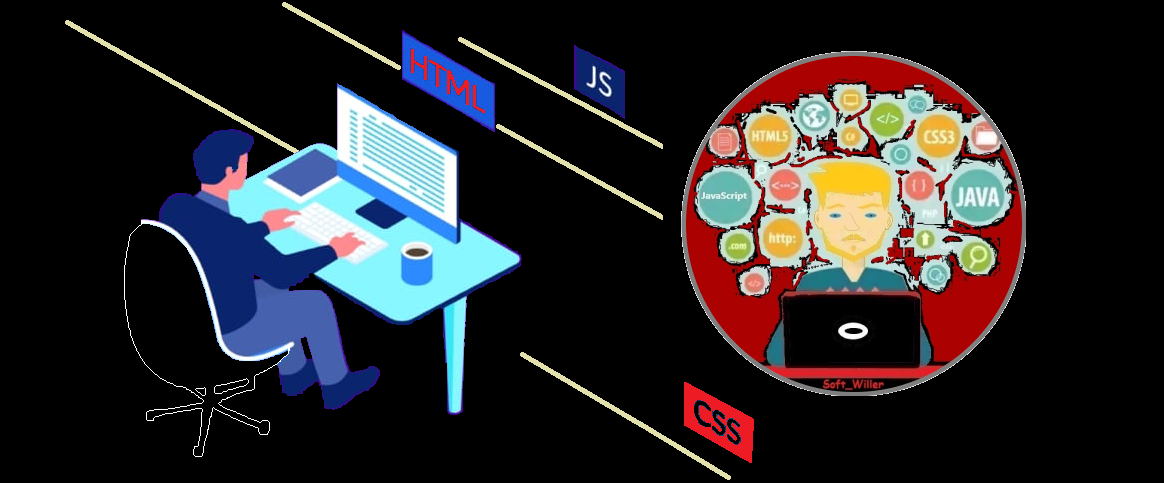
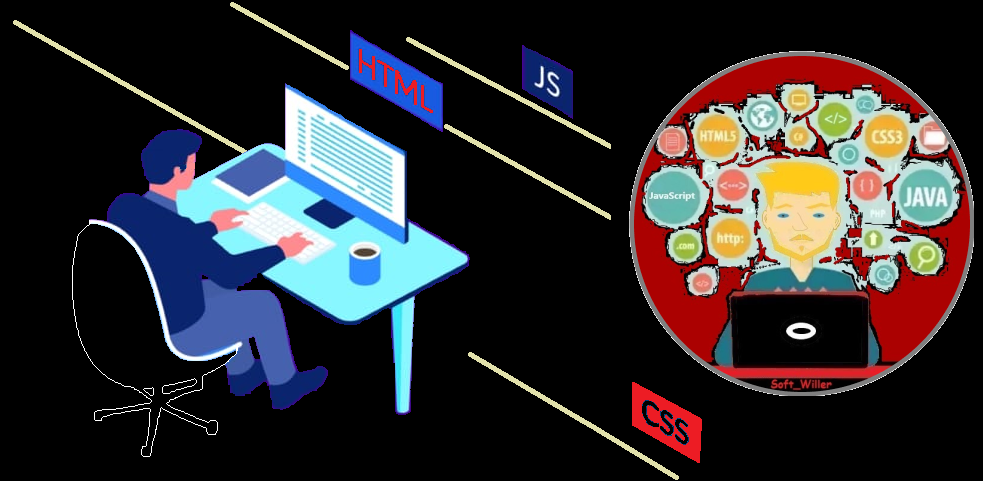
new update

diff --git a/form/form.html b/form/form.html
@@ -1,6 +1,5 @@
 <!DOCTYPE html>
 <html lang="pt-br">
-
 <head>
   <meta charset="UTF-8">
   <meta http-equiv="X-UA-Compatible" content="IE=edge">
@@ -8,7 +7,6 @@
   <title>Cadastro</title>
   <link rel="stylesheet" href="./stylesForm.css">
 </head>
-
 <body>
   <header>
     <h1>SOFT_WILLER</h1>
@@ -20,16 +18,17 @@
           <div id="theCad">
             <label for="ctrl-cad">Preencha o Cadastro: </label>
           </div>
+          <div id="formCad">            
           <div>
-            <label for="ctrl-name">Nome completo: * </label>
+            <label for="ctrl-name">* Nome completo:</label>
             <input name="name" type="text" id="ctrl-name" required placeholder="Digite seu nome">
           </div>
           <div>
-            <label for="ctrl-email">e-mail: * </label>
+            <label for="ctrl-email">* e-mail:</label>
             <input name="email" type="email" id="ctrl-email" required placeholder="Digite seu e-mail">
           </div>
           <div>
-            <label for="ctrl-sex">Sexo: * </label>
+            <label for="ctrl-sex">* Sexo:</label>
             <select name="sex" id="ctrl-sex" required>
               <option value="1">Selecione</option>
               <option value="2">Masculino</option>
@@ -37,27 +36,27 @@
             </select>
           </div>
           <div>
-            <label for="ctrl-cpf">CPF: * </label>
+            <label for="ctrl-cpf">* CPF:</label>
             <input name="cpf" type="cpf" id="ctrl-cpf" required placeholder="Digite seu CPF">
           </div>
           <div>
-            <label for="ctrl-phone">Fone: * </label>
+            <label for="ctrl-phone">* Fone:</label>
             <input name="phone" type="phone" id="ctrl-phone" required placeholder="Digite seu telefone">
           </div>
           <div>
-            <label for="data">Nascimento: * </label>
+            <label for="data">* Nascimento:</label>
             <input type="date" id="data" required>
           </div>
           <div>
-            <label for="ctrl-address">Endereço: * </label>
+            <label for="ctrl-address">* Endereço:</label>
             <input name="address" type="address" id="ctrl-address" required placeholder="Digite o logradouro">
           </div>
           <div>
-            <label for="number">Número: *</label>
+            <label for="number">* Número:</label>
             <input type="number" id="number" min="1" max="300" placeholder="Ex.: 123">
           </div>
           <div>
-            <label for="ctrl-city">Cidade: * </label>
+            <label for="ctrl-city">* Cidade:</label>
             <select name="city" id="ctrl-city" required>
               <option value="1">Selecione</option>
               <option value="2">Treze Tílias</option>
@@ -81,7 +80,7 @@
             </select>
           </div>
           <div>
-            <label for="ctrl-state">Estado: * </label>
+            <label for="ctrl-state">* Estado:</label>
             <select name="state" id="ctrl-state" required>
               <option value="1">Selecione</option>
               <option value="2">Santa Catarina</option>
@@ -96,7 +95,7 @@
             </select>
           </div>
           <div>
-            <label for="ctrl-country">País: * </label>
+            <label for="ctrl-country">* País:</label>
             <select name="ctrl-country" id="ctrl-country" required>
               <option value="1">Selecione</option>
               <option value="2">Brasil</option>
@@ -111,12 +110,13 @@
             </select>
           </div>
           <div>
-            <label for="ctrl-job">Profissão: * </label>
+            <label for="ctrl-job">* Profissão:</label>
             <input name="job" type="job" id="ctrl-job" required placeholder="Digite sua profissão">
           </div><br>
           <div>
-            <label for="ctrl-level">Escolaridade: * </label>
-
+            <div class="study">
+              <label for="ctrl-level">* Escolaridade:</label>
+            </div>            
             <div>
               <input type="radio" name="level" id="ctrl-level-1">
               <label for="ctrl-level-1">Fundamental</label>
@@ -124,13 +124,13 @@
               <label for="ctrl-level-2">Médio</label>
               <input type="radio" name="level" id="ctrl-level-3">
               <label for="ctrl-level-3">Superior</label>
-            </div>
+            </div>          
           </div>
           <div class="data">
             <p>* Dados obrigatórios</p>
           </div>
+          </div>
         </div>
-
         <div id="languages">
           <label for="ctrl-languages">Linguagens que você conhece: </label>
           <div id="ctrl-languages">
@@ -157,11 +157,11 @@
         <div class="password">
           <h2 class="passwordTitle">Senha</h2>
           <div>
-            <label for="ctrl-password">Crie uma Senha: * </label>
+            <label for="ctrl-password">* Crie uma Senha:</label><br>
             <input name="password" type="password" id="ctrl-password" required placeholder="Digite uma senha">
-          </div>
+          </div><br>
           <div>
-            <label for="ctrl-repeatPassword">Repita sua Senha: * </label>
+            <label for="ctrl-repeatPassword">* Repita sua Senha:</label><br>
             <input name="password" type="password" id="ctrl-repeatPassword" required placeholder="Repita sua senha">
           </div>
           <div class="data">
@@ -180,7 +180,7 @@
     </section>
   </main>
   <footer>
-    Feito com ❤ pela:
+    Desenvolvido com ❤ pela:
     <a href="../know.html">Soft_Willer</a>
   </footer>
 </body>

diff --git a/form/stylesForm.css b/form/stylesForm.css
@@ -14,15 +14,16 @@ header h1 {
 }
 
 #input {
-  background:#000000;
-  background-size: 300px;
+  background:#000000;  
   background-image: url(../assets/technologies_.png);
   background-repeat: no-repeat;
-  background-position: center;
-  background-size: 900px;
+  background-position: right;
+  background-size: 600px;
+  background-margin-right: 0;
   font: bold 20px arial, sans-serif;
   color: #db0707;  
   padding: 25px;
+  padding-bottom: 0;
   border:2px solid;
   border-radius: 10px;
   margin-top: 90px; 
@@ -35,6 +36,11 @@ header h1 {
 #theCad {
   font-size: 20px;
   margin-bottom: 10px;
+  text-align: center;
+}
+
+#formCad {
+  text-align: center;
 }
 
 #ctrl-sex {
@@ -101,10 +107,23 @@ header h1 {
   cursor: pointer;  
 }
 
+.data1 p {
+  text-align: right;
+  font-size: 10px;
+  padding-bottom: 0;
+}
+
+#study {
+  font-size: 20px;
+  margin-bottom: 100px;
+  text-align: center;
+}
+
 #languages {
   background:#000;
   margin-top: 5px;
-  padding: 3px; 
+  padding: 25px; 
+  text-align: center; 
   font: bold 20px arial, sans-serif;
   color: #db0707;
   border:2px solid;
@@ -120,7 +139,7 @@ header h1 {
   font: bold 15px arial, sans-serif;
   color: #db0707;
   margin-top: 4px;
-  padding: 5px;
+  padding-top: 10px;
   border: 2px solid;
   position: relative;    
   text-align: center;
@@ -140,7 +159,6 @@ header h1 {
   text-decoration: underline;
   text-transform: uppercase;
   text-align: center;
-  font-style: italic;
   margin-top: 0;
 }
 
@@ -152,6 +170,7 @@ header h1 {
   font-size: 30px;
   display: flex;
   border-radius: 10px;
+  padding: 10px;
 }
 
 #buttomReset, #buttomSubmit, #buttomInitial {
